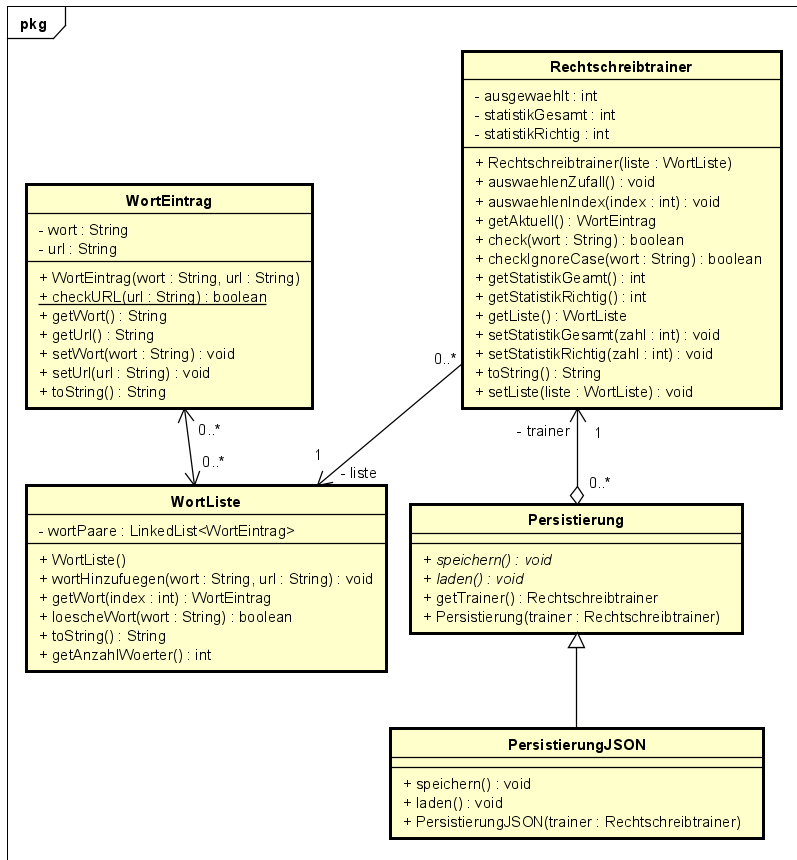
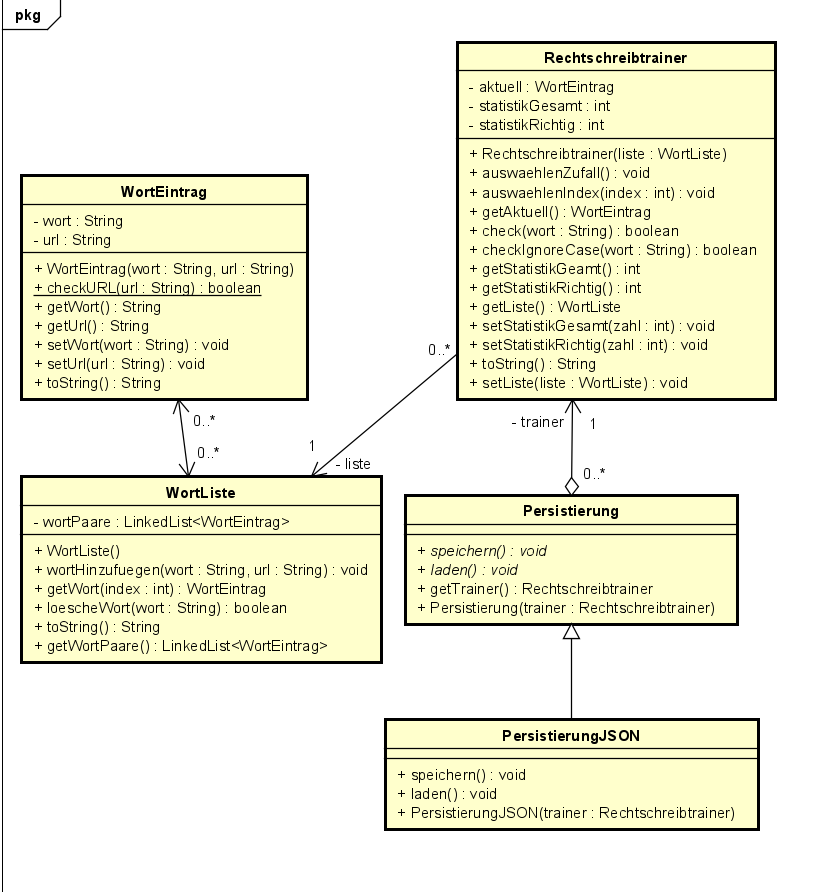
Persistierungs-Feature-Fertigstellung

diff --git a/src/main/java/rkoepplinger/model/Rechtschreibtrainer.java b/src/main/java/rkoepplinger/model/Rechtschreibtrainer.java
@@ -8,7 +8,7 @@ import java.util.Random;
 public class Rechtschreibtrainer {
     //4 Attribute
     private WortListe liste;
-    private int ausgewaehlt;
+    private WortEintrag aktuell;
     private int statistikGesamt;
     private int statistikRichtig;
     /**
@@ -24,11 +24,11 @@ public class Rechtschreibtrainer {
      * @throws IllegalArgumentException Falls die Liste leer ist.
      */
     public void auswaehlenZufall() throws IllegalArgumentException{
-        if(liste.getAnzahlWoerter() == 0) {
+        if(liste.getWortPaare().size() == 0) {
             throw new IllegalArgumentException("Liste ist leer");
         }
         Random r1 = new Random();
-        ausgewaehlt = r1.nextInt(liste.getAnzahlWoerter());
+        aktuell =  liste.getWort(r1.nextInt(liste.getWortPaare().size()));
     }
 
     /**
@@ -38,21 +38,14 @@ public class Rechtschreibtrainer {
      * @throws IndexOutOfBoundsException Falls der Index nicht passt.
      */
     public void auswaehlenIndex(int index) throws IndexOutOfBoundsException, IllegalArgumentException{
-        if(liste.getAnzahlWoerter() == 0) {
+        if(liste.getWortPaare().size() == 0) {
             throw new IllegalArgumentException("Liste ist leer");
         }
-        if(index < 0 || index >= liste.getAnzahlWoerter()) {
+        if(index < 0 || index >= liste.getWortPaare().size()) {
             throw new IndexOutOfBoundsException();
         }else {
-            ausgewaehlt = index;
+            aktuell = liste.getWort(index);
         }
-    }
-    /**
-     * Gibt den aktuellen WortEintrag zurück
-     * @return Der WortEintrag
-     */
-    public WortEintrag getAktuell() {
-        return liste.getWort(ausgewaehlt);
     }
     /**
      * �berpr�ft ob das �bergebene Wort mit dem aktuellem Wort �bereinstimmt und ber�cksichtigt
@@ -62,7 +55,7 @@ public class Rechtschreibtrainer {
      */
     public boolean check(String wort) {
         statistikGesamt++;
-        if(wort.equals(liste.getWort(ausgewaehlt).getWort())) {
+        if(wort.equals(aktuell.getWort())) {
             statistikRichtig++;
             return true;
         }
@@ -76,46 +69,11 @@ public class Rechtschreibtrainer {
      */
     public boolean checkIgnoreCase(String wort) {
         statistikGesamt++;
-        if(wort.toLowerCase().equals(liste.getWort(ausgewaehlt).getWort().toLowerCase())) {
+        if(wort.toLowerCase().equals(aktuell.getWort().toLowerCase())) {
             statistikRichtig++;
             return true;
         }
         return false;
-    }
-    /**
-     * Gibt den Gesamtwert der Statistik zur�ck
-     * @return der Gesamtwert
-     */
-    public int getStatistikGesamt() {
-        return statistikGesamt;
-    }
-    /**
-     * Gibt die Anzahl richtiger Angaben der Statistik zur�ck
-     * @return die richtigen Angaben
-     */
-    public int getStatistikRichtig() {
-        return statistikRichtig;
-    }
-    /**
-     * Gibt die Liste der WortEintr�ge zur�ck
-     * @return liste die Liste
-     */
-    public WortListe getListe() {
-        return liste;
-    }
-    /**
-     * Setzt den Wert von statistikGesamt
-     * @param zahl der neue Wert
-     */
-    public void setStatistikGesamt(int zahl) {
-        this.statistikGesamt = zahl;
-    }
-    /**
-     * Setzt den Wert von statistikRichtig
-     * @param zahl der neue Wert
-     */
-    public void setStatistikRichtig(int zahl) {
-        this.statistikRichtig = zahl;
     }
     /**
      * �berschrieben wird die toString Methode der Klasse Object
@@ -130,5 +88,47 @@ public class Rechtschreibtrainer {
     }
     public void setListe(WortListe liste) {
         this.liste = liste;
+    }
+    /**
+     * Gibt die Liste der WortEintr�ge zur�ck
+     * @return liste die Liste
+     */
+    public WortListe getListe() {
+        return liste;
+    }
+    /**
+     * Gibt den aktuellen WortEintrag zurück
+     * @return Der WortEintrag
+     */
+    public WortEintrag getAktuell() {
+        return aktuell;
+    }
+    /**
+     * Gibt den Gesamtwert der Statistik zur�ck
+     * @return der Gesamtwert
+     */
+    public int getStatistikGesamt() {
+        return statistikGesamt;
+    }
+    /**
+     * Setzt den Wert von statistikGesamt
+     * @param zahl der neue Wert
+     */
+    public void setStatistikGesamt(int zahl) {
+        this.statistikGesamt = zahl;
+    }
+    /**
+     * Gibt die Anzahl richtiger Angaben der Statistik zur�ck
+     * @return die richtigen Angaben
+     */
+    public int getStatistikRichtig() {
+        return statistikRichtig;
+    }
+    /**
+     * Setzt den Wert von statistikRichtig
+     * @param zahl der neue Wert
+     */
+    public void setStatistikRichtig(int zahl) {
+        this.statistikRichtig = zahl;
     }
 }

diff --git a/src/main/java/rkoepplinger/model/PersistierungJSON.java b/src/main/java/rkoepplinger/model/PersistierungJSON.java
@@ -1,0 +1,62 @@
+package rkoepplinger.model;
+
+
+import com.fasterxml.jackson.core.type.TypeReference;
+import com.fasterxml.jackson.databind.ObjectMapper;
+import com.google.gson.Gson;
+import com.google.gson.reflect.TypeToken;
+import org.json.JSONObject;
+
+import java.io.FileReader;
+import java.io.FileWriter;
+import java.io.IOException;
+import java.io.Reader;
+import java.lang.reflect.Type;
+
+public class PersistierungJSON extends Persistierung{
+    /**
+     * Ein PersistierungsJSON-Konstruktor, der die Persistierung mit JSON ermöglicht.
+     * @param trainer Der Rechtschreibtrainer für die Persistierung.
+     */
+       PersistierungJSON(Rechtschreibtrainer trainer) {
+        super(trainer);
+    }
+
+    /**
+     * Speichert die aktuelle Worttrainer-Session.
+     */
+    @Override
+    public void speichern() {
+        JSONObject json = new JSONObject(trainer);
+        System.out.println(json);
+        FileWriter fw = null;
+        try {
+            fw = new FileWriter("persistierung.json");
+            fw.write(json.toString());
+        } catch (IOException e) {
+            e.printStackTrace();
+        }finally {
+            if(fw != null) {
+                try {
+                    fw.close();
+                } catch (IOException e) {
+                    throw new RuntimeException(e);
+                }
+            }
+        }
+    }
+    /**
+     * Lädt die aktuellste Worttrainer-Session.
+     */
+    @Override
+    public void laden() {
+        try {
+            Reader input = new FileReader("persistierung.json");
+            Gson gson = new Gson();
+            Type type = new TypeToken<Rechtschreibtrainer>(){}.getType();
+            trainer = gson.fromJson(input, type);
+        }catch (IOException e) {
+
+        }
+    }
+}

diff --git a/src/main/java/rkoepplinger/model/Persistierung.java b/src/main/java/rkoepplinger/model/Persistierung.java
@@ -1,0 +1,28 @@
+package rkoepplinger.model;
+/**
+ * Eine abstrakte Klasse Persistierung, die als Superklasse für das Strategy-Pattern benutzt wird
+ * @author Robin Köpplinger
+ * @version 2023-09-29
+ */
+public abstract class Persistierung {
+    protected Rechtschreibtrainer trainer;
+    public abstract void speichern();
+    public abstract void laden();
+
+    /**
+     * Gibt den Rechtschreibtrainer zurück
+     * @return der Trainer
+     */
+    public Rechtschreibtrainer getTrainer() {
+        return trainer;
+    }
+
+    /**
+     * Ein Persistierungskonstruktor, der von Subklassen verwendet werden kann und
+     * die Persistierungsmethode austauschbar macht.
+     * @param trainer
+     */
+    public Persistierung(Rechtschreibtrainer trainer) {
+        this.trainer = trainer;
+    }
+}

diff --git a/src/main/java/rkoepplinger/model/WortListe.java b/src/main/java/rkoepplinger/model/WortListe.java
@@ -78,10 +78,10 @@ public class WortListe {
         return text;
     }
     /**
-     * Gibt die Anzahl an gespeicherten W�rter zur�ck
-     * @return die Anzahl
+     * Gibt die Liste mit den WortPaaren zurück
+     * @return die Wortpaare
      */
-    public int getAnzahlWoerter() {
-        return wortPaare.size();
+    public LinkedList<WortEintrag> getWortPaare() {
+        return wortPaare;
     }
 }
